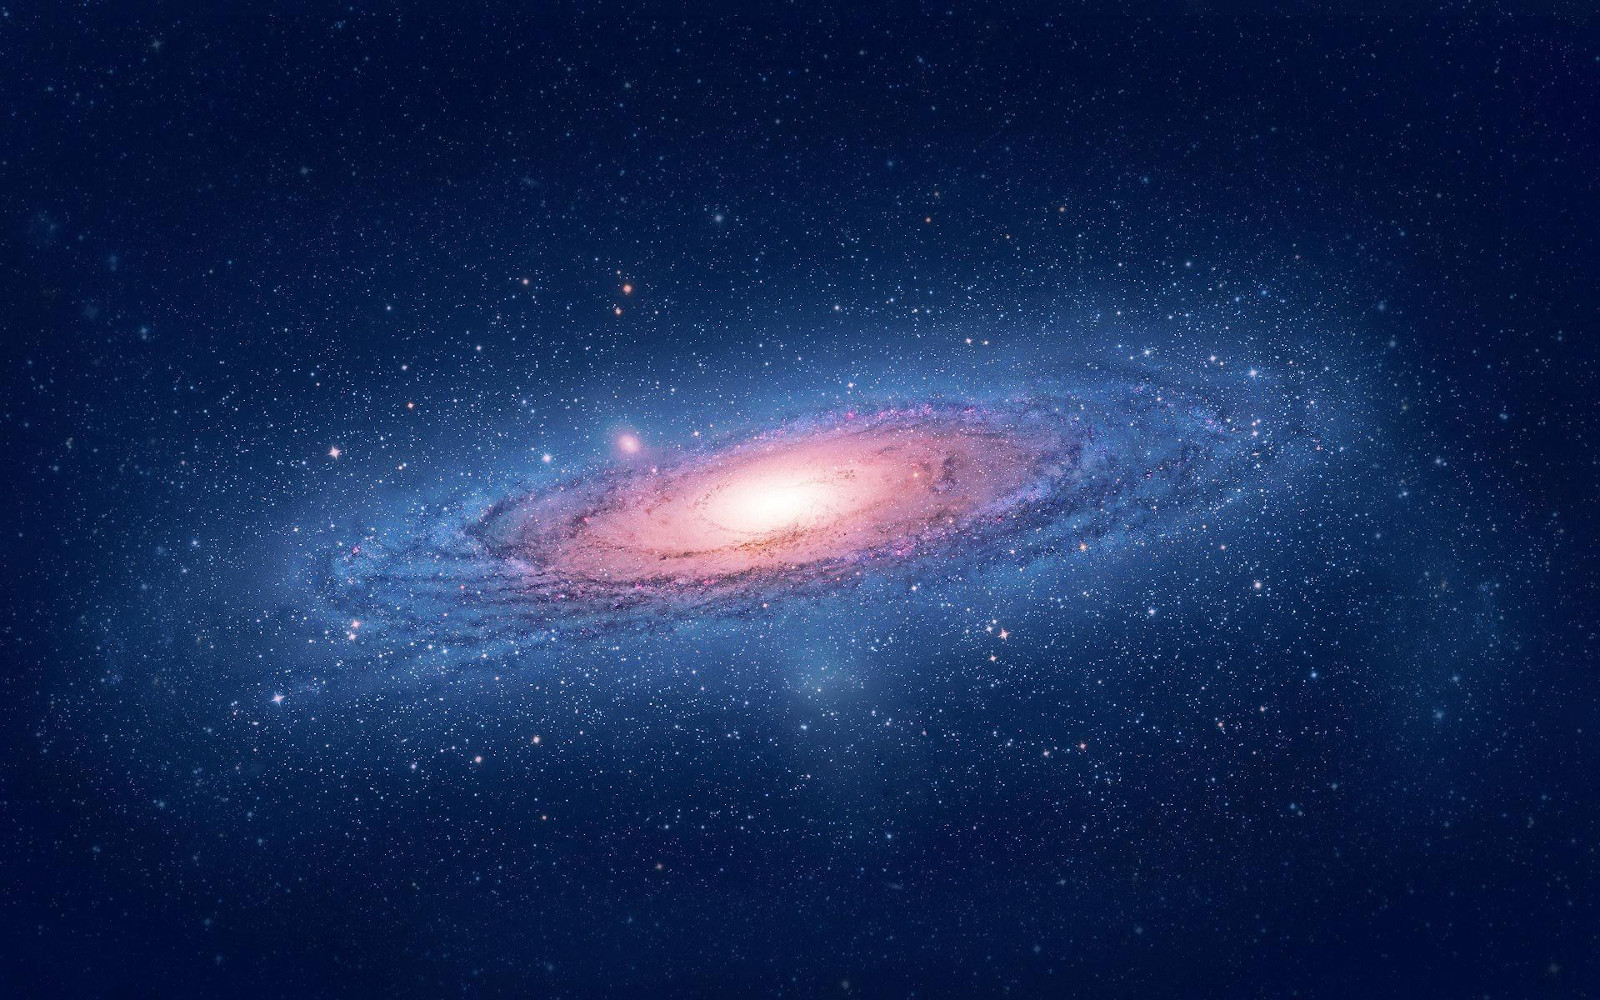
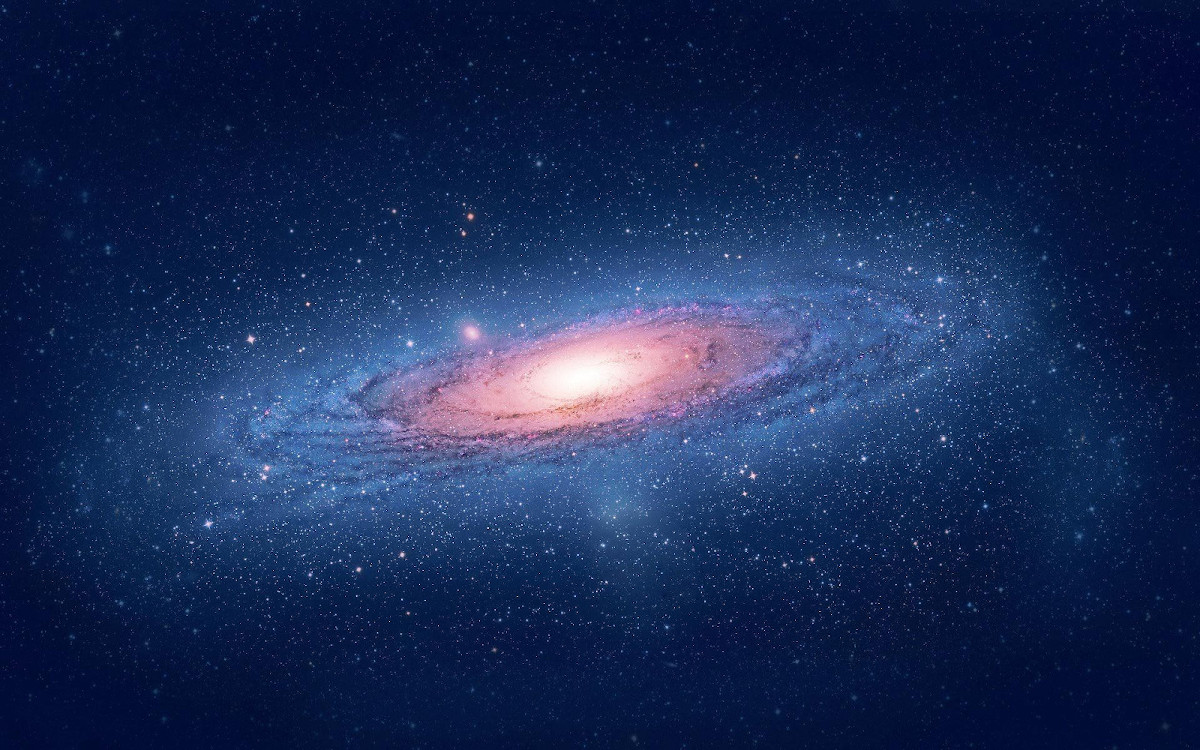
test

diff --git a/test.py b/test.py
@@ -1,6 +1,6 @@
 import pygame
 pygame.init()
-screen = pygame.display.set_mode((1600,1000))
+screen = pygame.display.set_mode((1200,750))
 
 launched = True
 image = pygame.image.load("tets.jpg")
